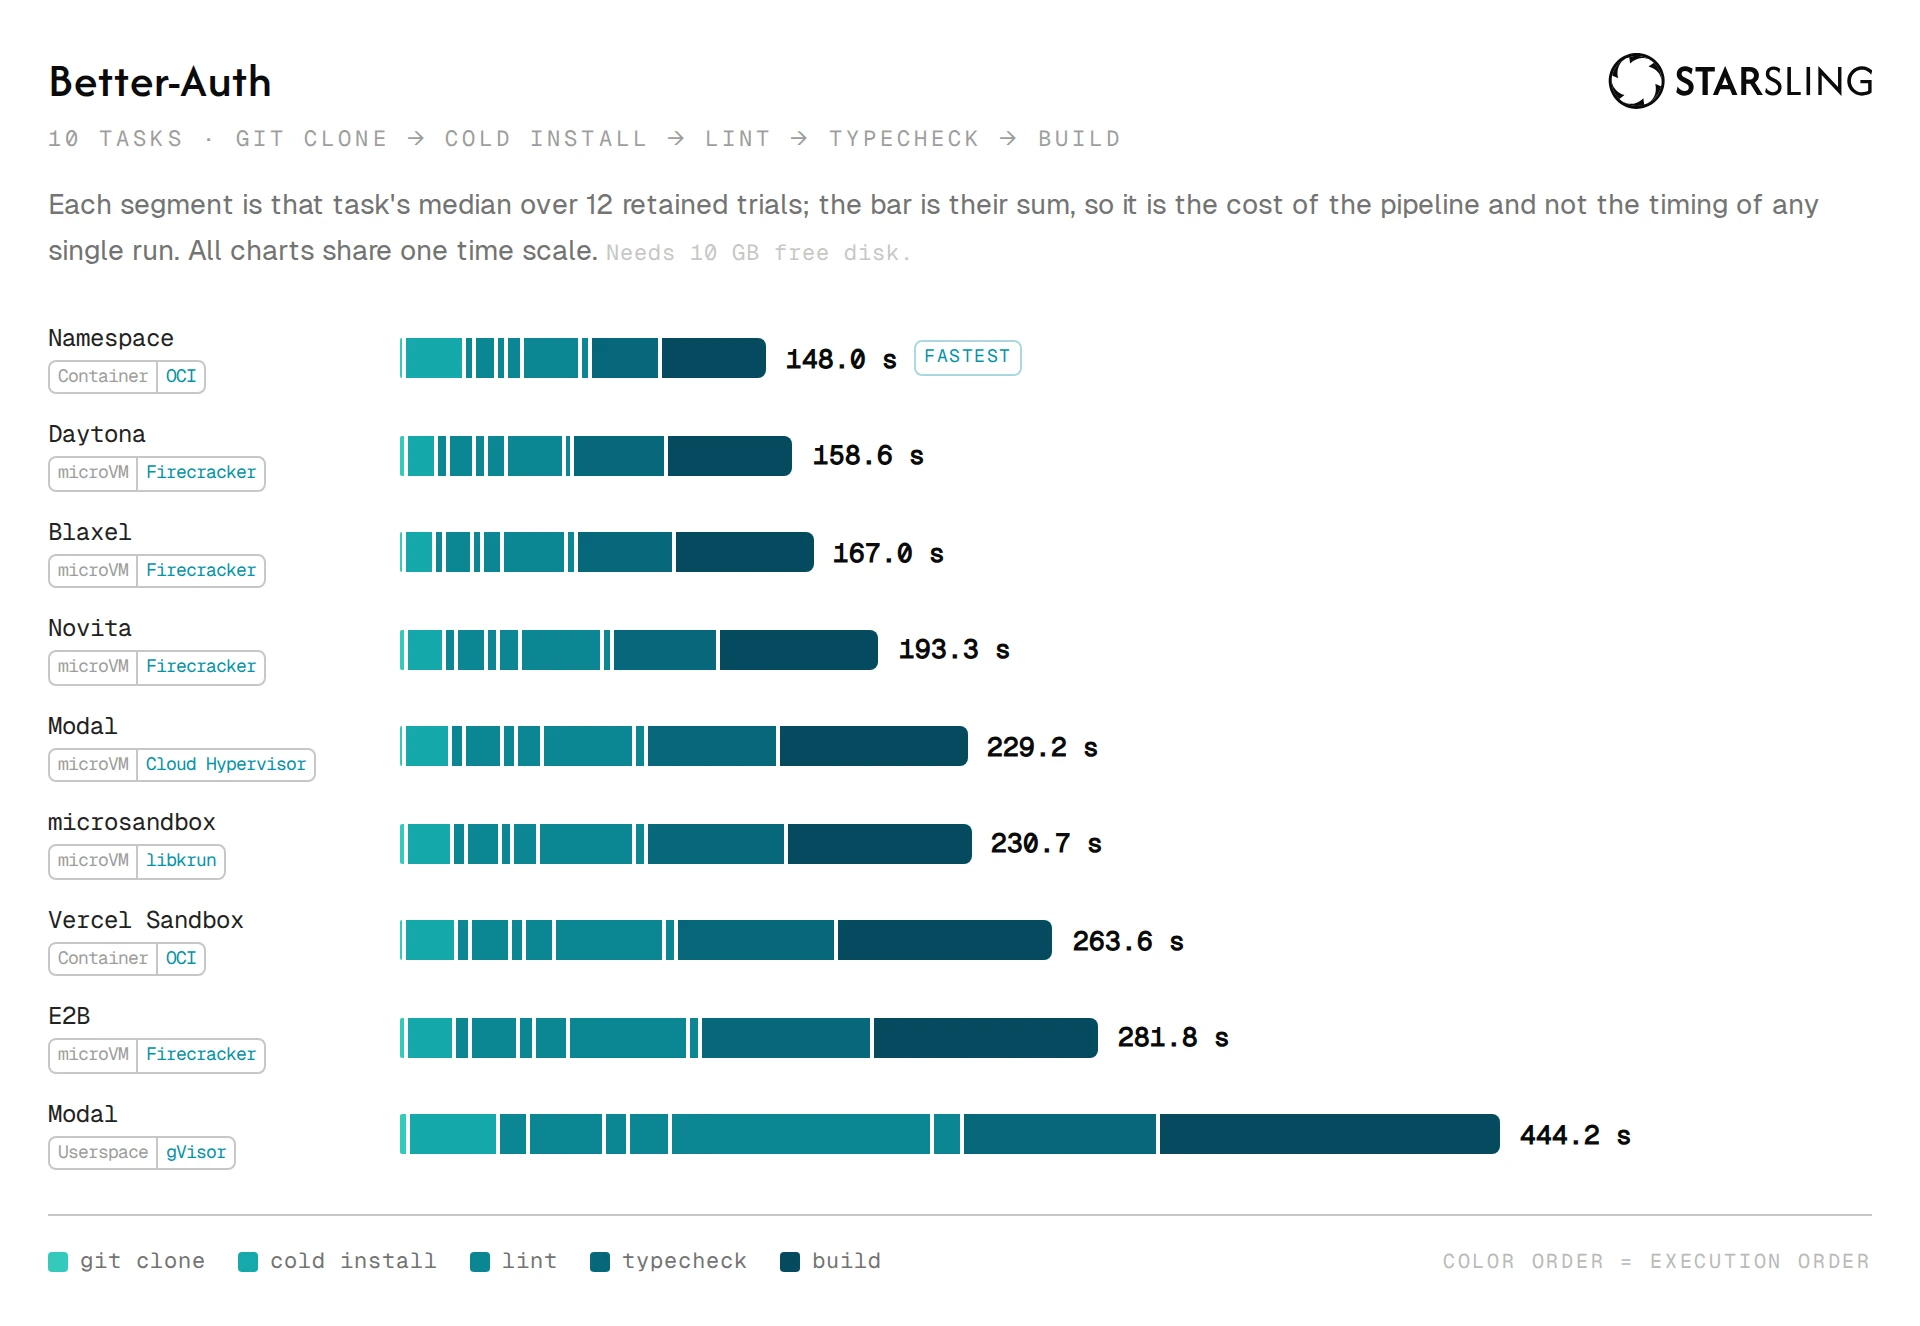
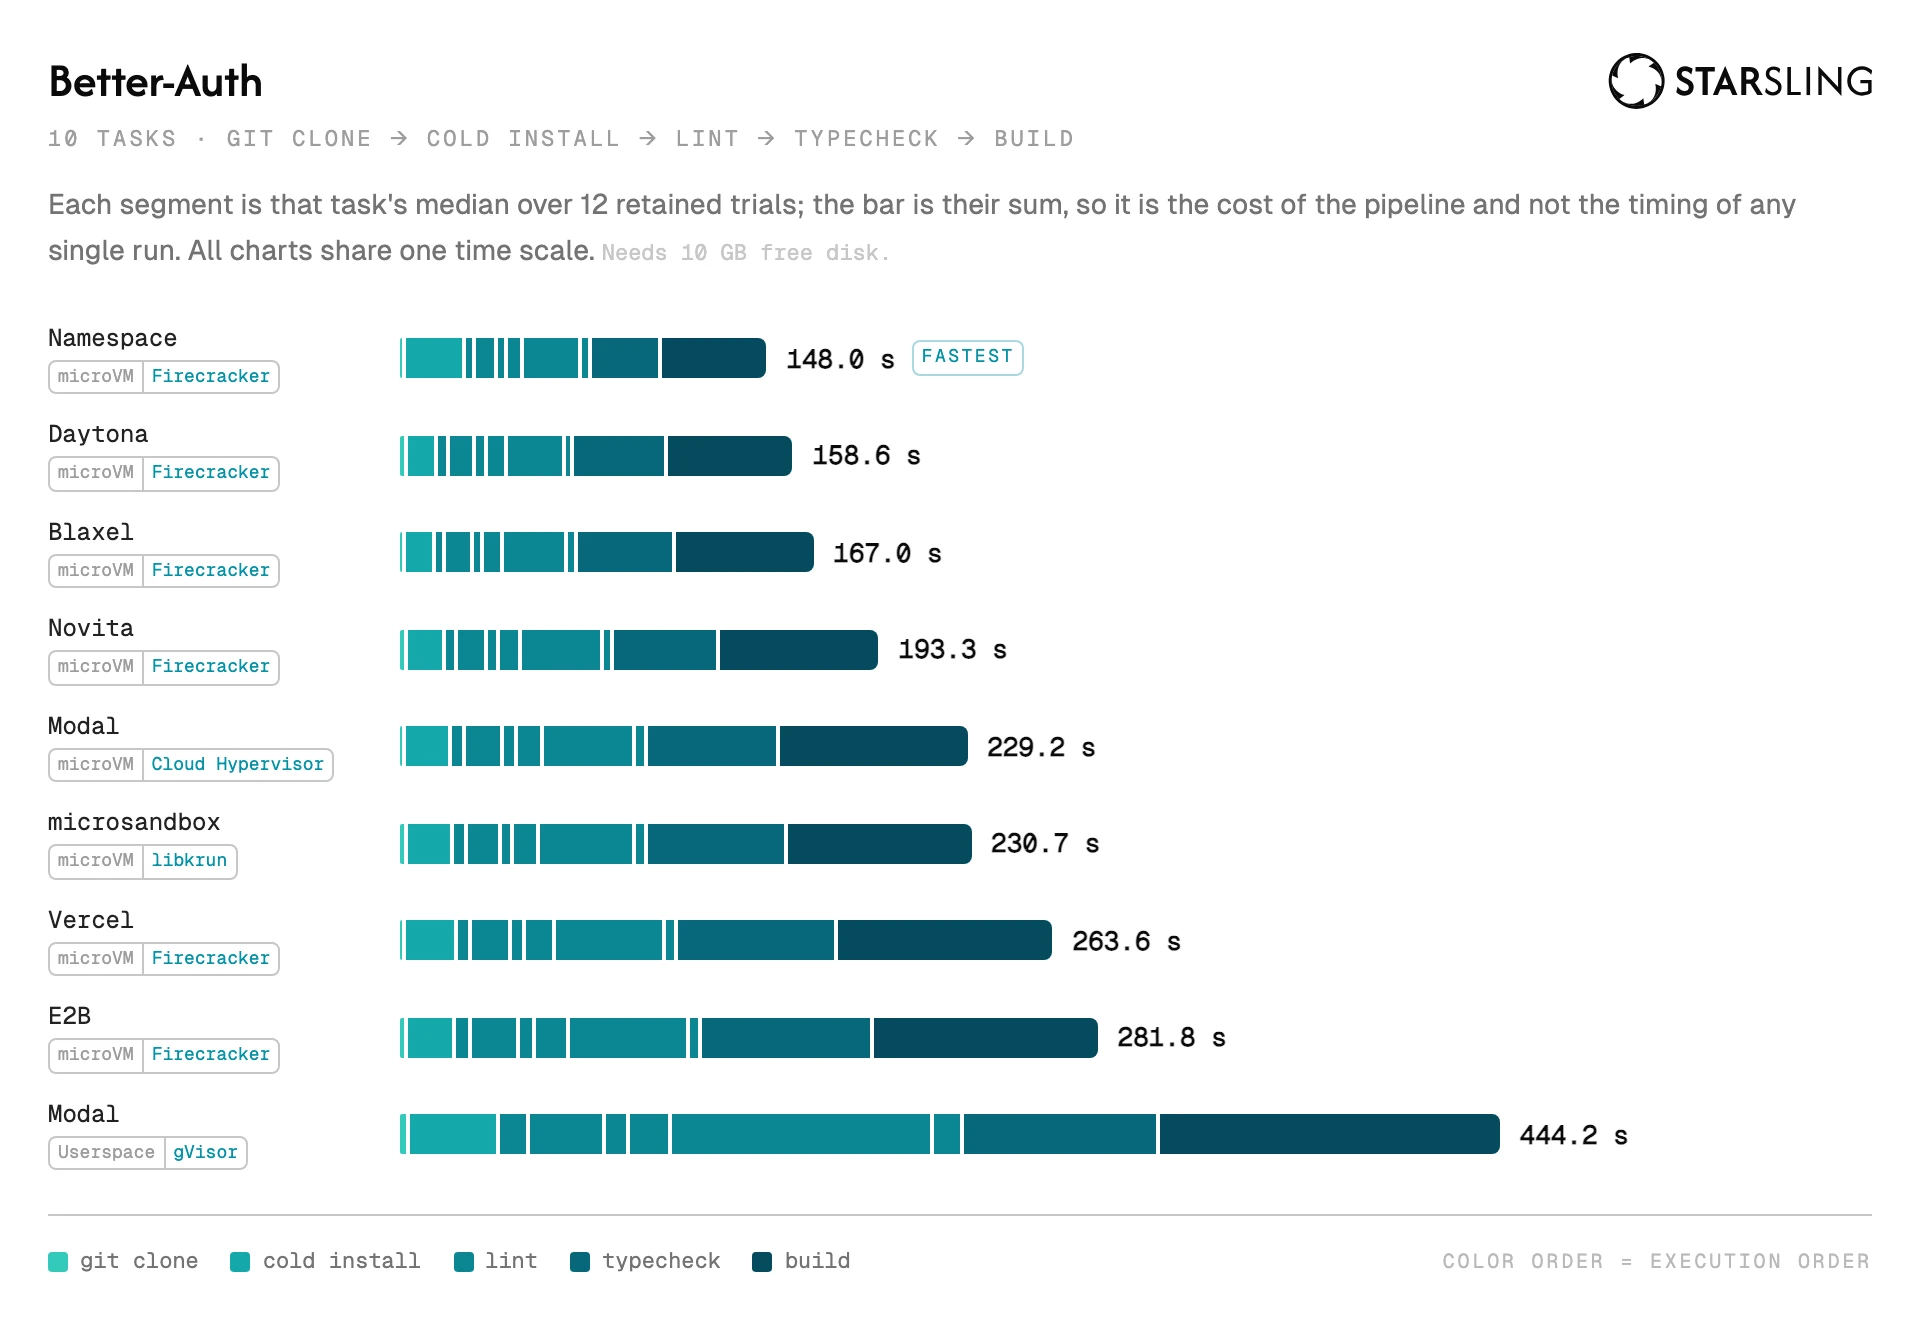
fix(figures): chip the outer VMM, not the nested container runtime (#336)
* fix(figures): chip the outer VMM, not the nested container runtime

Vercel and Namespace run the workload in an OCI container INSIDE a Firecracker
microVM, so the mise/system-provider probe reports both layers: machine_vmm=
firecracker AND isolation_runtime=oci-container (detected_virt_vm=kvm confirms
the VM). observedIsolationRuntime read isolation_runtime first, so it took the
innermost layer and discarded the hardware boundary — chipping two Firecracker
microVMs as "Container | OCI" in every realworld chart.

That also put the figures at odds with the Markdown table for the same run,
which says "Vercel Sandbox | Firecracker microVM | vm": packages/results treats
the registry declaration as authoritative and documents in isolationClass() that
the probe's container signal is a cgroup-quota heuristic a microVM trips too, so
it must never override a VM. The figure package trusted the raw probe instead.

Consult machine_vmm first. The existing emptiness filter already skips
'not-observable', so Modal's gVisor cell still falls through to gvisor. Verified
against run 30730328892: vercel and namespace change to microVM|Firecracker and
the other seven providers are byte-identical. LEADERBOARD.md is unchanged — only
the three figures re-render.

The old test set isolation_runtime and machine_vmm to the same value, so it
never covered nesting; add the real two-layer shape plus the no-VMM fallthrough.

* fix(figures): label the vercel row "Vercel"
[…]

diff --git a/packages/figures/src/model.test.ts b/packages/figures/src/model.test.ts
@@ -142,6 +142,98 @@ describe("buildRealworldFigureModel", () => {
 		]);
 	});
 
+	// Vercel and Namespace run the workload in an OCI container INSIDE a Firecracker microVM, so the
+	// probe reports both layers at once. Reading `isolation_runtime` first took the innermost one and
+	// chipped two microVMs as "Container · OCI" — contradicting the Markdown table for the same run,
+	// which called them microVMs. The outer boundary is what the chip claims, so the VMM wins.
+	it("prefers the outer VMM over a nested container runtime", () => {
+		const nested = (providerId: string): ProviderRun =>
+			provider(providerId, [metric(CLONE, [1, 2]), metric(INSTALL, [30, 32])], {
+				hostMetadata: [
+					{
+						source: "mise/system-provider",
+						sourceFile: "system/system-provider.json",
+						fields: [
+							{ path: "container_runtime", value: "oci-container" },
+							{ path: "isolation_runtime", value: "oci-container" },
+							{ path: "machine_vmm", value: "firecracker" },
+						],
+					},
+				],
+			});
+		const model = buildRealworldFigureModel({
+			run: run([nested("vercel"), nested("namespace")]),
+			metrics: METRICS,
+			providers: [
+				{ id: "vercel", displayName: "Vercel Sandbox", isolationTechnology: "Firecracker microVM" },
+				{
+					id: "namespace",
+					displayName: "Namespace",
+					isolationTechnology: "microVM (dedicated instance)",
+				},
+			],
+			suites: SUITES,
+		});
+
+		expect(model.providers.map((p) => p.isolation)).toEqual([
+			{ kind: "microVM", technology: "Firecracker" },
+			{ kind: "microVM", technology: "Firecracker" },
+		]);
+		// The chart shortens the vendor name the way it already does for Daytona/Modal/microsandbox;
+		// the Markdown tables keep the registry's "Vercel Sandbox".
+		expect(model.providers.map((p) => p.name)).toEqual(["Vercel", "Namespace"]);
+	});
+
+	// Modal's gVisor cell exposes no VMM, so the nested-layer preference must fall through rather
+	// than leave the chip blank.
+	it("falls through to the container runtime when no VMM is observable", () => {
+		const model = buildRealworldFigureModel({
+			run: run([
+				provider("modal-gvisor", [metric(CLONE, [1, 2]), metric(INSTALL, [30, 32])], {
+					hostMetadata: [
+						{
+							source: "mise/system-provider",
+							sourceFile: "system/system-provider.json",
+							fields: [
+								{ path: "container_runtime", value: "gvisor" },
+								{ path: "isolation_runtime", value: "gvisor" },
+								{ path: "machine_vmm", value: "not-observable" },
+							],
+						},
+					],
+				}),
+				provider("blaxel", [metric(CLONE, [1, 2]), metric(INSTALL, [30, 32])], {
+					hostMetadata: [
+						{
+							source: "mise/system-provider",
+							sourceFile: "system/system-provider.json",
+							fields: [
+								{ path: "container_runtime", value: "none" },
+								{ path: "isolation_runtime", value: "firecracker" },
+								{ path: "machine_vmm", value: "firecracker" },
+							],
+						},
+					],
+				}),
+			]),
+			metrics: METRICS,
+			providers: [
+				{
+					id: "modal-gvisor",
+					displayName: "Modal (gVisor)",
+					isolationTechnology: "gVisor container",
+				},
+				{ id: "blaxel", displayName: "Blaxel", isolationTechnology: "Firecracker microVM" },
+			],
+			suites: SUITES,
+		});
+
+		expect(model.providers.map((p) => p.isolation)).toEqual([
+			{ kind: "Userspace", technology: "gVisor" },
+			{ kind: "microVM", technology: "Firecracker" },
+		]);
+	});
+
 	it("charts a suite two environments completed, named from its task labels", () => {
 		const model = build([
 			provider("alpha", [metric(CLONE, [1, 2]), metric(INSTALL, [30, 32])]),

diff --git a/packages/figures/src/model.ts b/packages/figures/src/model.ts
@@ -106,6 +106,7 @@ function figureProviderName(providerId: string, displayName: string): string {
 	if (providerId.startsWith("daytona")) return "Daytona";
 	if (providerId.startsWith("modal")) return "Modal";
 	if (providerId.startsWith("microsandbox")) return "microsandbox";
+	if (providerId.startsWith("vercel")) return "Vercel";
 	return displayName;
 }
 
@@ -151,9 +152,27 @@ function isolationFromDeclaration(declared: string | undefined): FigureIsolation
 	return undefined;
 }
 
-/** Read the dominant exact runtime from the aggregated mise/system-provider records. */
+/**
+ * Read the dominant exact runtime from the aggregated mise/system-provider records.
+ *
+ * `machine_vmm` is consulted FIRST because the probe reports NESTED isolation and these paths name
+ * different layers of it. Vercel and Namespace run the workload in an OCI container inside a
+ * Firecracker microVM, so they report `machine_vmm=firecracker` AND `isolation_runtime=oci-container`
+ * — both true. Reading `isolation_runtime` first returned the innermost layer and threw away the
+ * hardware boundary, chipping two Firecracker microVMs as "Container · OCI" while the Markdown table
+ * for the same run called them microVMs.
+ *
+ * The outer boundary wins because that is what the chip claims: the isolation the workload is
+ * actually confined by, and the thing a reader comparing environments is weighing. It also puts this
+ * derivation back in agreement with `packages/results`, whose roster treats the registry declaration
+ * as authoritative and documents (see `isolationClass`) that the probe's container signal is a
+ * cgroup-quota heuristic a microVM trips too — so it must never override a VM.
+ *
+ * `machine_vmm` is skipped when it is `not-observable` (Modal's gVisor cell, where no VMM is exposed
+ * and `isolation_runtime=gvisor` is the correct answer) by the same emptiness filter below.
+ */
 function observedIsolationRuntime(provider: ProviderRun): string | undefined {
-	const paths = ["isolation_runtime", "machine_vmm", "container_runtime"];
+	const paths = ["machine_vmm", "isolation_runtime", "container_runtime"];
 	for (const path of paths) {
 		const counts = new Map<string, number>();
 		for (const record of provider.hostMetadata ?? []) {
